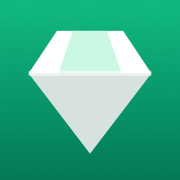
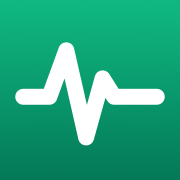
feat: 柔化延迟/丢包热力色带，图标换成探针主题
色带：
- 卡片色带高度 12px -> 8px
- 弃用 emerald-600/90、lime-400/80、yellow-400/80、rose-500/80 这类高饱和色，
  改用新增的 --heat-1..5 低饱和 oklch 色阶（深浅色各一套）
- 阈值分档不变

图标：
- 绿宝石换成心跳脉冲（favicon.svg / 多尺寸 favicon.ico / apple-touch-icon.png）
- 页头默认 logo 同步为单色脉冲线

版本 1.0.6 -> 1.0.7

Changed region(s): [[0.0833, 0.1667, 0.9167, 0.8611]]

diff --git a/src/composables/useNodePingDisplay.ts b/src/composables/useNodePingDisplay.ts
@@ -47,28 +47,31 @@ export function getPingToneClass(value: number): string {
   return 'text-rose-600 dark:text-rose-400'
 }
 
+// 热力色带分档：用 --heat-1..5 这套低饱和色阶，别用 Tailwind 的 emerald/lime/yellow/rose
+// ——那几个色在 80~90% 不透明度下非常刺眼，小色带会被它们抢走视觉重心。
+// 阈值与下面两个函数一一对应，改档位记得两边一起改。
 function getLatencyToneClass(latency: number): string {
   if (latency <= 60)
-    return 'bg-emerald-600/90'
+    return 'bg-heat-1'
   if (latency <= 120)
-    return 'bg-green-500/80'
+    return 'bg-heat-2'
   if (latency <= 180)
-    return 'bg-lime-400/80'
+    return 'bg-heat-3'
   if (latency <= 240)
-    return 'bg-yellow-400/80'
-  return 'bg-rose-500/80'
+    return 'bg-heat-4'
+  return 'bg-heat-5'
 }
 
 function getLossToneClass(loss: number): string {
   if (loss <= 1)
-    return 'bg-emerald-600/90'
+    return 'bg-heat-1'
   if (loss <= 3)
-    return 'bg-green-500/80'
+    return 'bg-heat-2'
   if (loss <= 6)
-    return 'bg-lime-400/80'
+    return 'bg-heat-3'
   if (loss <= 9)
-    return 'bg-yellow-400/80'
-  return 'bg-rose-500/80'
+    return 'bg-heat-4'
+  return 'bg-heat-5'
 }
 
 function toNetworkDisplay(stat: NodePingPerTaskStat): NodePingNetworkDisplay {
@@ -108,7 +111,7 @@ export function useNodePingDisplay(
       return {
         key: `${point.time}-${index}`,
         className: value === null
-          ? 'bg-muted-foreground/15'
+          ? 'bg-heat-null'
           : metric === 'latency'
             ? getLatencyToneClass(value)
             : getLossToneClass(value),
@@ -134,7 +137,7 @@ export function useNodePingDisplay(
 
     return Array.from({ length: NODE_PING_BAR_COUNT }, (_, index) => ({
       key: `${metric}-empty-${index}`,
-      className: 'bg-muted-foreground/10',
+      className: 'bg-heat-null',
       tooltip,
     }))
   }

diff --git a/src/styles/main.css b/src/styles/main.css
@@ -41,6 +41,15 @@
   --chart-5: oklch(0.769 0.188 70.08);
   --radius: 0.625rem;
   --font-sans: system-ui, -apple-system, 'Segoe UI', Roboto, sans-serif;
+
+  /* 延迟 / 丢包热力色阶：低饱和、低亮度对比，避免小色带过于刺眼。
+     1 最优 → 5 最差，与 ping 的分档阈值一一对应。 */
+  --heat-1: oklch(0.74 0.09 168);
+  --heat-2: oklch(0.78 0.09 142);
+  --heat-3: oklch(0.82 0.088 108);
+  --heat-4: oklch(0.78 0.105 78);
+  --heat-5: oklch(0.71 0.125 24);
+  --heat-null: oklch(0.58 0.012 286 / 0.22);
 }
 
 .dark {
@@ -74,6 +83,14 @@
   --chart-3: oklch(0.769 0.188 70.08);
   --chart-4: oklch(0.627 0.265 303.9);
   --chart-5: oklch(0.645 0.246 16.439);
+
+  /* 深色下提高一点亮度，保持与浅色相同的辨识度 */
+  --heat-1: oklch(0.68 0.1 168);
+  --heat-2: oklch(0.71 0.1 142);
+  --heat-3: oklch(0.76 0.095 108);
+  --heat-4: oklch(0.73 0.115 78);
+  --heat-5: oklch(0.65 0.135 24);
+  --heat-null: oklch(0.7 0.012 286 / 0.2);
 }
 
 @theme inline {
@@ -107,6 +124,12 @@
   --color-chart-3: var(--chart-3);
   --color-chart-4: var(--chart-4);
   --color-chart-5: var(--chart-5);
+  --color-heat-1: var(--heat-1);
+  --color-heat-2: var(--heat-2);
+  --color-heat-3: var(--heat-3);
+  --color-heat-4: var(--heat-4);
+  --color-heat-5: var(--heat-5);
+  --color-heat-null: var(--heat-null);
   --font-sans: var(--font-sans);
   --radius-sm: calc(var(--radius) - 4px);
   --radius-md: calc(var(--radius) - 2px);

diff --git a/src/components/NodeCard.vue b/src/components/NodeCard.vue
@@ -273,7 +273,7 @@ function openPingDialog() {
                 <span class="font-medium text-foreground/85">{{ latencyDisplay }}</span>
               </div>
               <div
-                class="grid h-3 items-end gap-[1px]"
+                class="grid h-2 items-end gap-[1px]"
                 :style="{ gridTemplateColumns: `repeat(${latencyRenderBars.length}, minmax(0, 1fr))` }"
               >
                 <DataTooltip
@@ -299,7 +299,7 @@ function openPingDialog() {
                 <span class="font-medium text-foreground/85">{{ lossDisplay }}</span>
               </div>
               <div
-                class="grid h-3 items-end gap-[1px]"
+                class="grid h-2 items-end gap-[1px]"
                 :style="{ gridTemplateColumns: `repeat(${lossRenderBars.length}, minmax(0, 1fr))` }"
               >
                 <DataTooltip

diff --git a/src/components/Header.vue b/src/components/Header.vue
@@ -67,9 +67,13 @@ const sitename = computed(() => appStore.publicSettings?.sitename || 'Monitor')
           <svg
             xmlns="http://www.w3.org/2000/svg"
             viewBox="0 0 32 32"
-            class="size-6 fill-foreground"
+            class="size-6 text-foreground"
           >
-            <path fill-rule="evenodd" d="M9 3h14l6 9-13 17L3 12zM3 11.2h26v1.6H3z" />
+            <path
+              fill="none" stroke="currentColor" stroke-width="3.2"
+              stroke-linecap="round" stroke-linejoin="round"
+              d="M2.2 17.4h5.4l3.5-9.6 4.1 18 3.4-12.2 2.4 3.8h8.8"
+            />
           </svg>
         </div>
         <Avatar v-else class="size-8">
